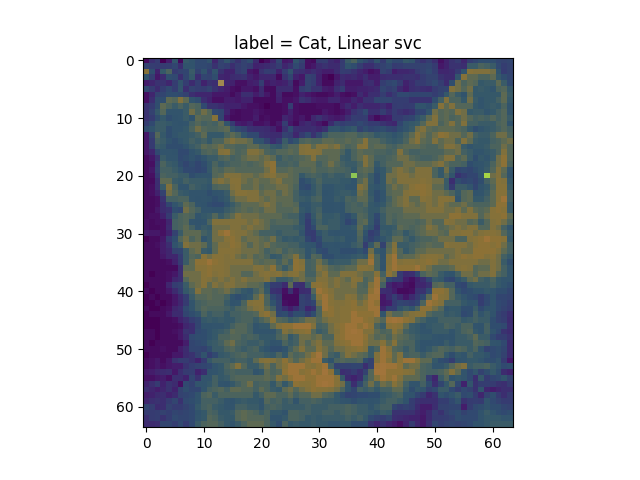
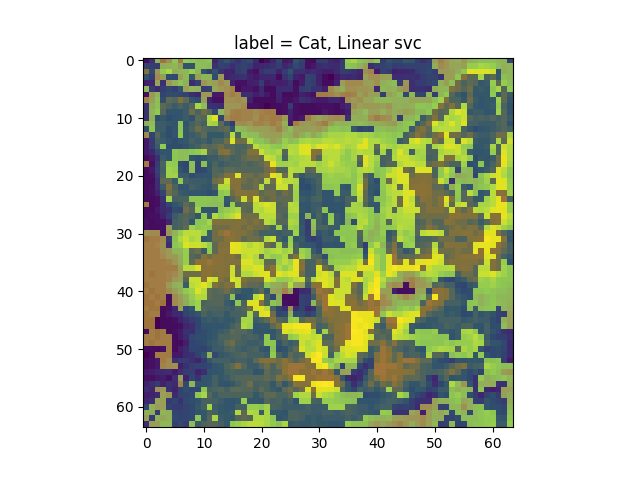
as

diff --git a/1e/main.py b/1e/main.py
@@ -256,7 +256,7 @@ def run_1b(data, label):
 
         count_feat = count(feat_list=RandForest_features, count_list=count_feat, ind=1)
 
-        lsvc = LinearSVC(C=9, penalty="l1", dual=False, max_iter=10000)
+        lsvc = SVC(C=9, kernel='linear', max_iter=10000)
         lsvc.fit(X_boot, y_boot.values.ravel())
         model = SelectFromModel(lsvc, prefit=True)
         lsvc_features = model.get_support(indices=True)
